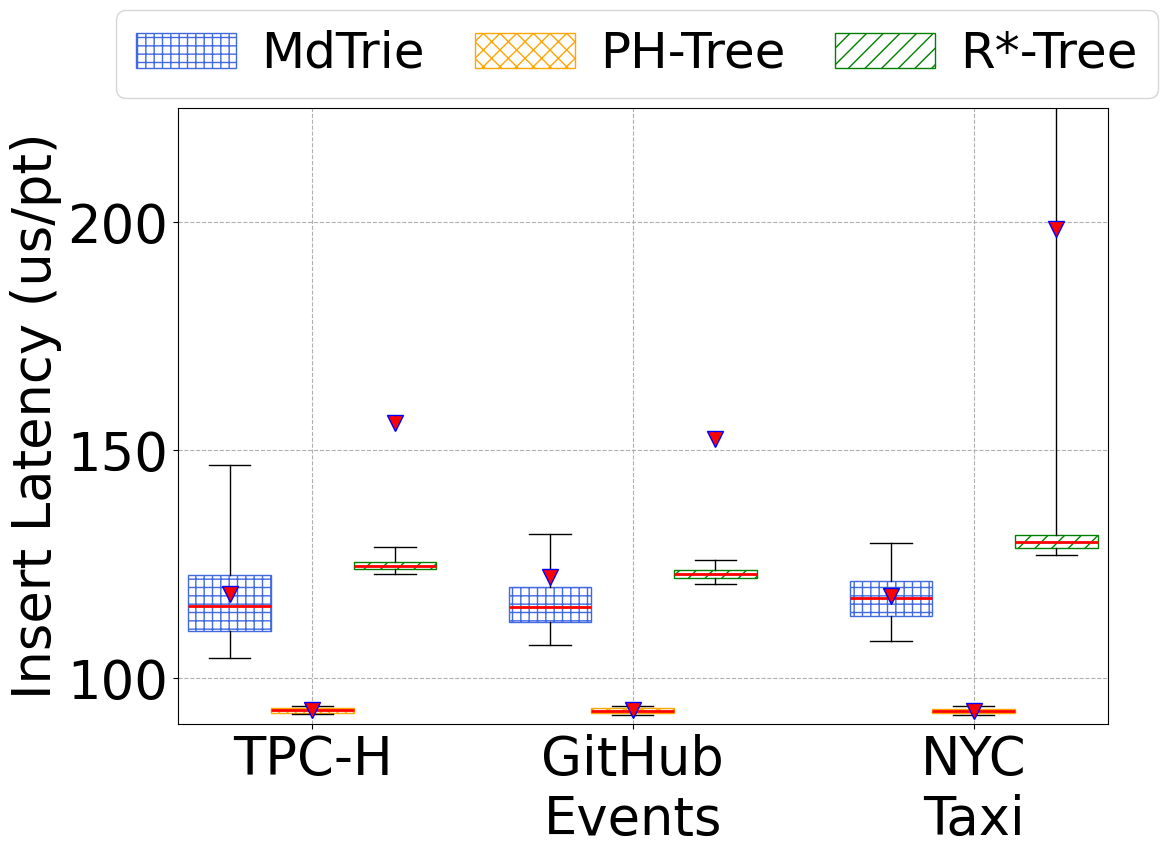
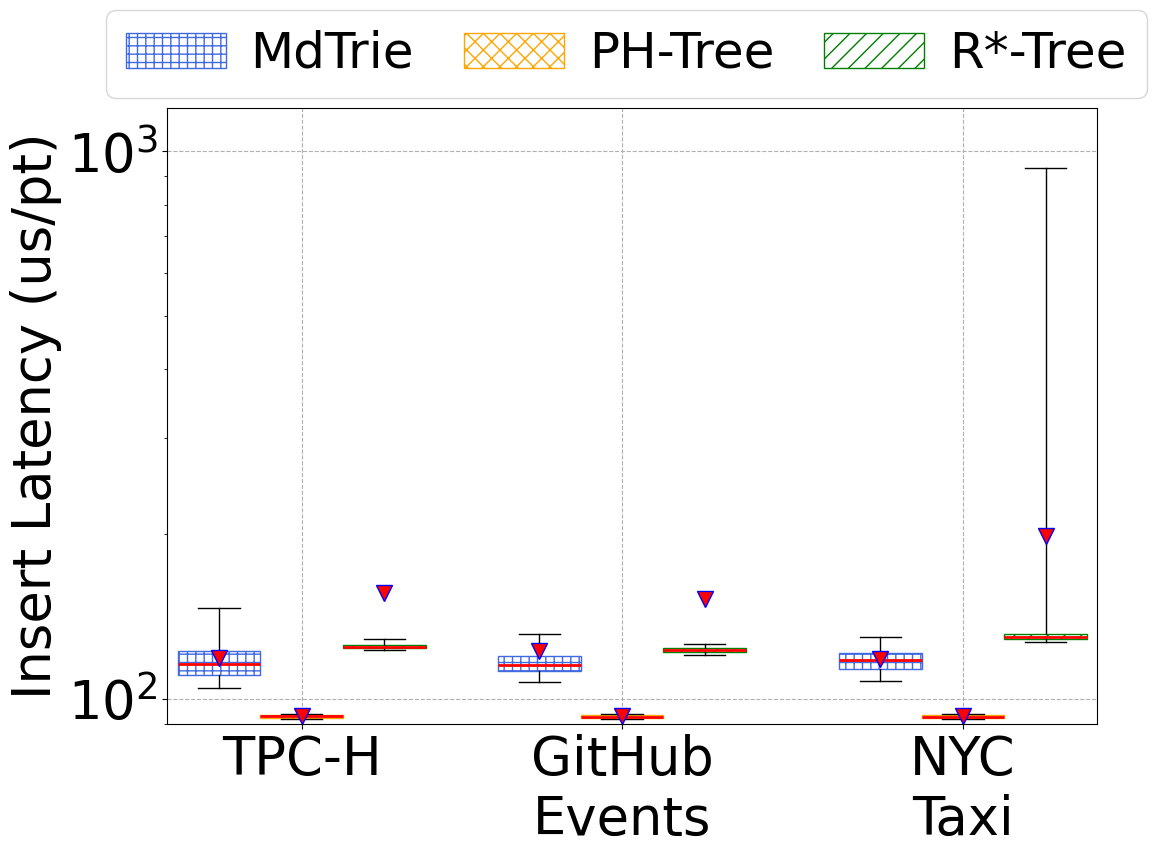
update plot

diff --git a/plots/plot/plot_sensitivity_optimization.py b/plots/plot/plot_sensitivity_optimization.py
@@ -82,6 +82,9 @@ if __name__ == "__main__":
 
         else:
             value_list_list[7] = value_list_list[6]
+            if workload == "query":
+                print([sum(value_list) / len(value_list) for value_list in value_list_list])
+                exit(0)
             plot_optimization_box(value_list_list, name_list, "sensitivity_optimization/{}_optimization_sensitivity".format(workload), workload, workload=="insert" or workload=="lookup" or workload=="storage" or workload == "query")
 
 

diff --git a/plots/pyutils/plot_functions.py b/plots/pyutils/plot_functions.py
@@ -220,7 +220,8 @@ def plot_micro_box(value_list_list:List, name_list:List, figname:str, workload:s
     elif workload == "insert" or workload == "lookup":
         plt.ylabel('{} Latency (us/pt)'.format(workload.capitalize()))
         if workload == "insert":
-            plt.ylim(90, 225)
+            plt.ylim(90, 1200)
+            plt.yscale("log")
         else:
             plt.ylim(90)
             plt.yscale("log")
